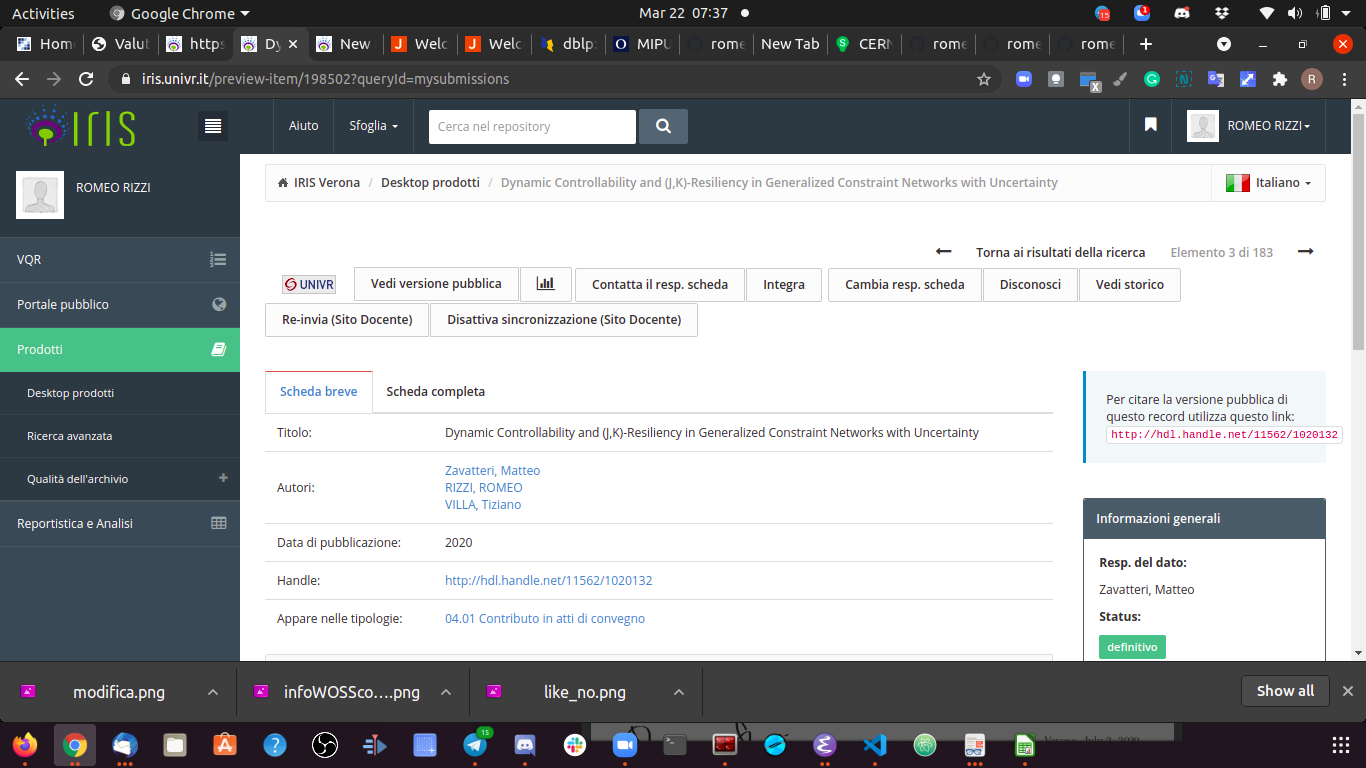
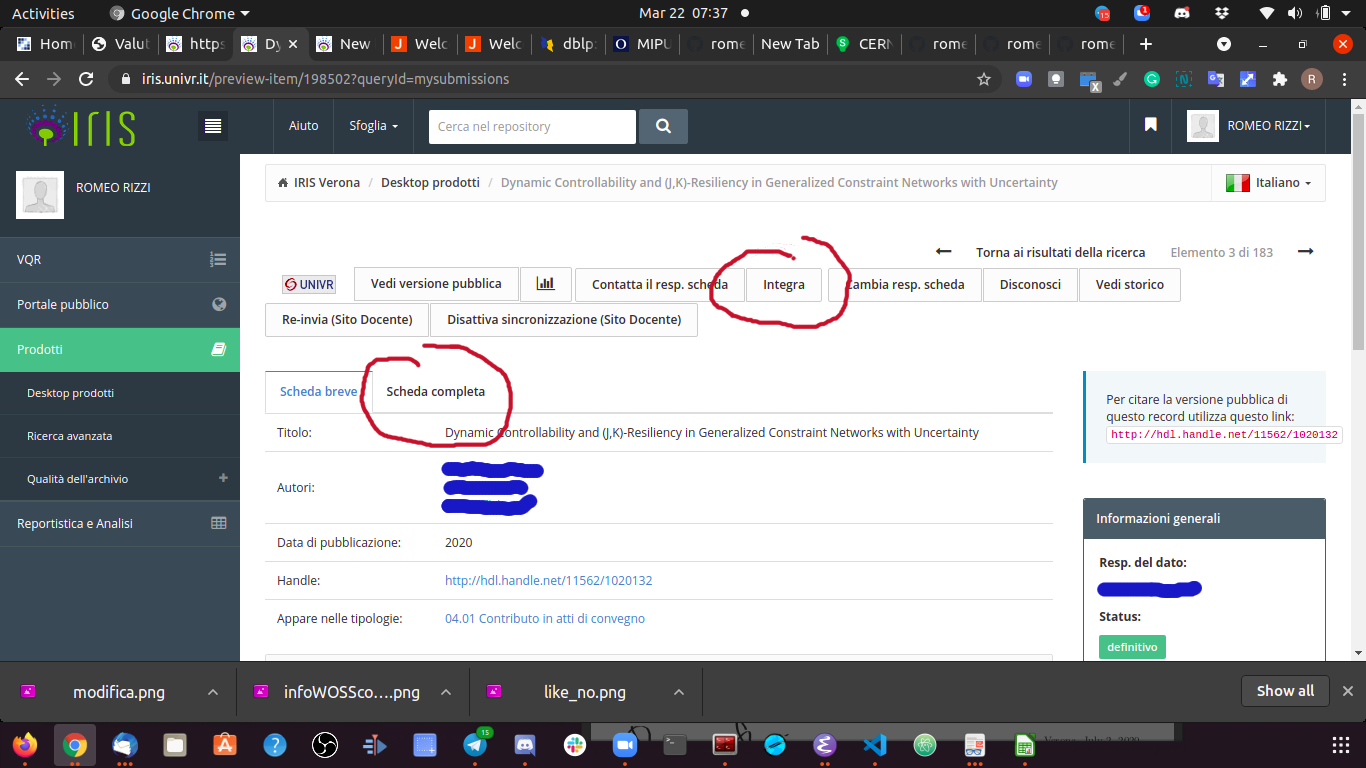
prova

diff --git a/README.md b/README.md
@@ -10,7 +10,7 @@ In questa prima fase ti conviene avvalerti del supporto di due strumenti:
 
 2. lo strumento [Sherpa/romeo](https://v2.sherpa.ac.uk/romeo/), della famiglia degli [Sherpa](https://v2.sherpa.ac.uk/), ti consente di assicurarti di avere pieni diritti di mettere a disposizione su IRIS dei .pdf di tuoi lavori per i quali tu o tuoi coautori avete firmato i più svariati copyright.
 
-Presenteremo i due strumenti separatamente, nelle due seguenti sezioni, ma a termine della seconda sezione cercheremo di suggerire come coordinare le interrogazioni ai due servizi in un workflow efficiente. Dedicheremo poi una terza sezione a questa prima fase per discutere la corretta gestione di eventuali lavori a conferenza.
+Presenteremo i due strumenti separatamente, nelle due seguenti sezioni, ma a termine della seconda sezione cercheremo di suggerire come coordinare le interrogazioni ai due servizi in un workflow efficiente. Dedicheremo però un'ulteriore e terza sezione alla Fase 1, per discutere la corretta gestione di eventuali lavori a conferenza.
 
 ### Strumento di Supporto alla Valutazione della CRUI
 
@@ -32,7 +32,7 @@ Per alcuni di noi c'è il problema dei settori disciplinari. Ad esempio io quand
 
 Come fare?
 
-Bisogna rimappare i lavori su settori diversi dal proprio, dove essi raggiungono categoria A/B. Attenzione però perché ogni GEV ha proprie modalità di valutazione non note a priori e quindi se il settore è diverso dal proprio il GEV potrebbe mandare il lavoro in peer-review e riconoscere infine categorie diverse può convenirei dove hai stabilito di poterti avventurare e così la prima fase prende 15 minuti (per fare, dopo ore e aiuto di colleghi per capire cosa vada in ultima fatto).
+Bisogna rimappare i lavori su settori diversi dal proprio, dove essi raggiungono categoria A/B. Attenzione però perché ogni GEV ha proprie modalità di valutazione non note a priori e quindi se il settore è diverso dal proprio il GEV potrebbe mandare il lavoro in peer-review e l'effetto finale potrebbe essere del tutto deludente: la commissione potrebbe decidere che il valore/pertinenza del lavoro per quel settore sia discutibile. Delle varie rimappature possibili devi pertanto scegliere quei settori dove in effetti il lavoro risulterebbe di pertinenza piena. Resta comunque non piacevole sottostare ad una valutazione e giudizio ex-post e potrebbe essere inoltre opportuno porre dei paletti a priori su quali siano i settori nei quali potersi eventualmente avventurare ai fini della VQR. Prese a monte queste scelte la prima fase costa 15 minuti (per fare, dopo ore e aiuto di colleghi per capire cosa vada in ultima fatto).
 
 Per selezionare una pubblicazione devi cliccare sulla ![manina col pollice verso l'alto](figs/like_no.png) nella colonna "Preferenza". Lo farai una volta che la categoria della pubblicazione che trovi sulla stessa riga della tabella sia impostata ad A o B. Per modificare tale categoria richiedendo la valutazione di altro settore clicca sull'effige ![WOS/scopus](figs/infoWOSScopus.png) contenuta nella colonna "Dettagli e Commenti". Quando clicchi su tale immagine vieni flashato su un'altra pagina dove devi scendere fino alla tabella titolata "Valutazione relativa ad Altre Aree/SSD" (ci arrivi diretto con ricerca (Ctrl-F su chrome) di "Altre"). Quì potrai selezionare un'altro settore cliccando nuovamente l'icona della ![manina col pollice verso l'alto](figs/like_no.png). Puoi poi tornare alla pagina precedente utilizzando il pulsante apposito del browser, questo sito te lo lascia fare.  
 
@@ -63,30 +63,46 @@ Selezionata una pathway (una alla volta, sic!), le autorizzazioni si trovano sot
 
 Una cosa importante da sapere è che per far riconoscere a SupportoCrui (e non escludiamo anche quella della commissione che valuterà) la corretta classificazione dei Convegni/conferenze è necessario che il campo "Nome del convegno" (anche chiamato "Titolo del Convegno" in altri contesti) in IRIS coincida esattamente con il titolo nella colonna "title" della tabella excel che trovi nella [cartella coi descrittori corretti di conferenze/convegni](conference_titles/).
 
- Purtroppo 1: Quando in IRIS si carica una pubblicazione a conferenza succede che la maggior parte delle conferenze non risultino correttamente classificata. A seguito di ciò la loro valutazione su SupportoCrui (e non escludiamo anche quella della commissione che valuterà) sarà pari a zero.
+ <strong>Purtroppo 1</strong>: Quando in IRIS si carica una pubblicazione a conferenza succede che la maggior parte delle conferenze non risultino correttamente classificate. A seguito di ciò la loro valutazione su SupportoCrui (e non escludiamo anche quella della commissione che valuterà) sarà pari a zero.
  Conviene pertanto effettuare la modifica del titolo in IRIS il prima possibile.
  La modifica sarà visibile su SupportoCrui il giorno successivo.
 
  Ad esempio:
   una conferenza indicata in IRIS con titolo "42nd Annual ACM SIGPLAN-SIGACT Symposium on Principles of Programming Languages" non viene semplicemente classificata. La stessa deve essere indicata con il titolo "ACM SIGPLAN-SIGACT SYMPOSIUM ON PRINCIPLES OF PROGRAMMING LANGUAGES", dove risulta classificata A++.
 
- Purtroppo 2: devi scegliere la tabella excel relativa alla tua disciplina (e non è detto che ne sia già stata collocata copia in questo repo. Dato che l'obiettivo da raggiungere con la VQR è di ateneo, conviene ci organizziamo in modo distribuito in questo: inviatemi tabelle aggiuntive al mio indirizzo istituzionale UniVR di posta elettronica AND/OR organizzatevi a livello di dipartimento.
+ <strong>Purtroppo 2</strong>: Devi scegliere la tabella excel relativa alla tua disciplina. E non è detto che ne troverai una copia già collocata in questo repo. Dato che l'obiettivo da raggiungere con la VQR è di ateneo, conviene ci organizziamo in modo distribuito in questo: inviatemi tabelle aggiuntive al mio indirizzo istituzionale UniVR di posta elettronica AND/OR organizzatevi a livello di dipartimento.
 
 Dopo essere entrato in IRIS, i passi per correggere i titoli delle conferenze per quei singoli lavori che avrai deciso di valorizzare per questa VQR sono i seguenti:
 
 1. Arrivare alla seguente schermata dove puoi sia chiedere di visualizzare (per più rapidamente controllare) pigiando sul tag/tab di "Scheda_Completa" che avviare l'editing di correzione pigiando il bottone "Integra"
 
-<a href="url"><img src="figs/Screenshot_IRIS_integra_button.png" align="left" height="48" width="48" ></a>
-
 2. Quando visualizzi la scheda completa il campo cui guardare si chiama "<strong>Nome</strong> del Convegno": 
-<a href="url"><img src="figs/Screenshot_Nome_del_convegno_IRIS_scheda_completa.png" align="left" height="48" width="48" ></a>
 
 3. Quando invece integri, il dato da editare è nel secondo dei form di immissione dati che ti vengono scarrellati, e quì si chiama "<strong>Titolo</strong> del Convegno": 
-<a href="url"><img src="figs/Screenshot_Titolo_del_Convegno_IRIS_integra.png" align="left" height="48" width="48" ></a>
 
-Non c'è pietas ma una volta chiarito si può fare (sarebbe meglio correggessero i programmi, o meglio rivedessero gli appalti, ovviamente). Poi io la VQR non l'ho chiesta e credo avremmo tutti di meglio da fare (le risorse di varia natura andrebbero forse investite diversamente). Però stando così le cose o si balla o si resta penalizzati. E' la macchina bellezza. 
+I seguenti Screenshots potranno aiutare a risolvere i tuoi dubbi se sei un caccadubbi come il sottoscritto:
 
-A tale proposito, è quì opportuno e giusto ringraziare le segretarie dei vari dipartimenti, a partire da quelle solerti del nostro che si sono premunite di farci avere il file excel ed istruirci in merito su segnalazioni dei colleghi docenti. 
+<details><summary>Visualizza uno screenshot guida il bottone "Integra" e il tag/tab "Scheda Completa"</summary> 
+
+<a href="url"><img src="figs/Screenshot_IRIS_integra_button.png" align="left"></a>
+
+</details>
+
+<details><summary>Visualizza uno screenshot guida per "Scheda Completa"</summary> 
+
+<a href="url"><img src="figs/Screenshot_Nome_del_convegno_IRIS_scheda_completa.png" align="left"></a>
+
+</details>
+
+<details><summary>Visualizza uno screenshot guida sul campo "<strong>Titolo</strong> del Convegno" da correggere</summary> 
+
+<a href="url"><img src="figs/Screenshot_Titolo_del_Convegno_IRIS_integra.png" align="left"></a>
+
+</details>
+
+<p>Non c'è pietas ma una volta chiarito si può fare (sarebbe meglio correggessero i programmi, o rivedessero gli appalti, ovviamente). Poi io la VQR non l'ho chiesta e credo avremmo tutti di meglio da fare (le risorse di varia natura andrebbero forse investite diversamente). Però stando così le cose o si balla o si resta penalizzati. E' la macchina bellezza.</p> 
+
+E` quì opportuno e giusto ringraziare le segretarie dei vari dipartimenti, a partire da quelle solerti del nostro che si sono premunite di farci avere il file excel ed istruirci in merito su segnalazioni e richieste di colleghi docenti. 
  
 ## Fase 2: scelta ([IRIS](https://iris.univr.it/))
 
